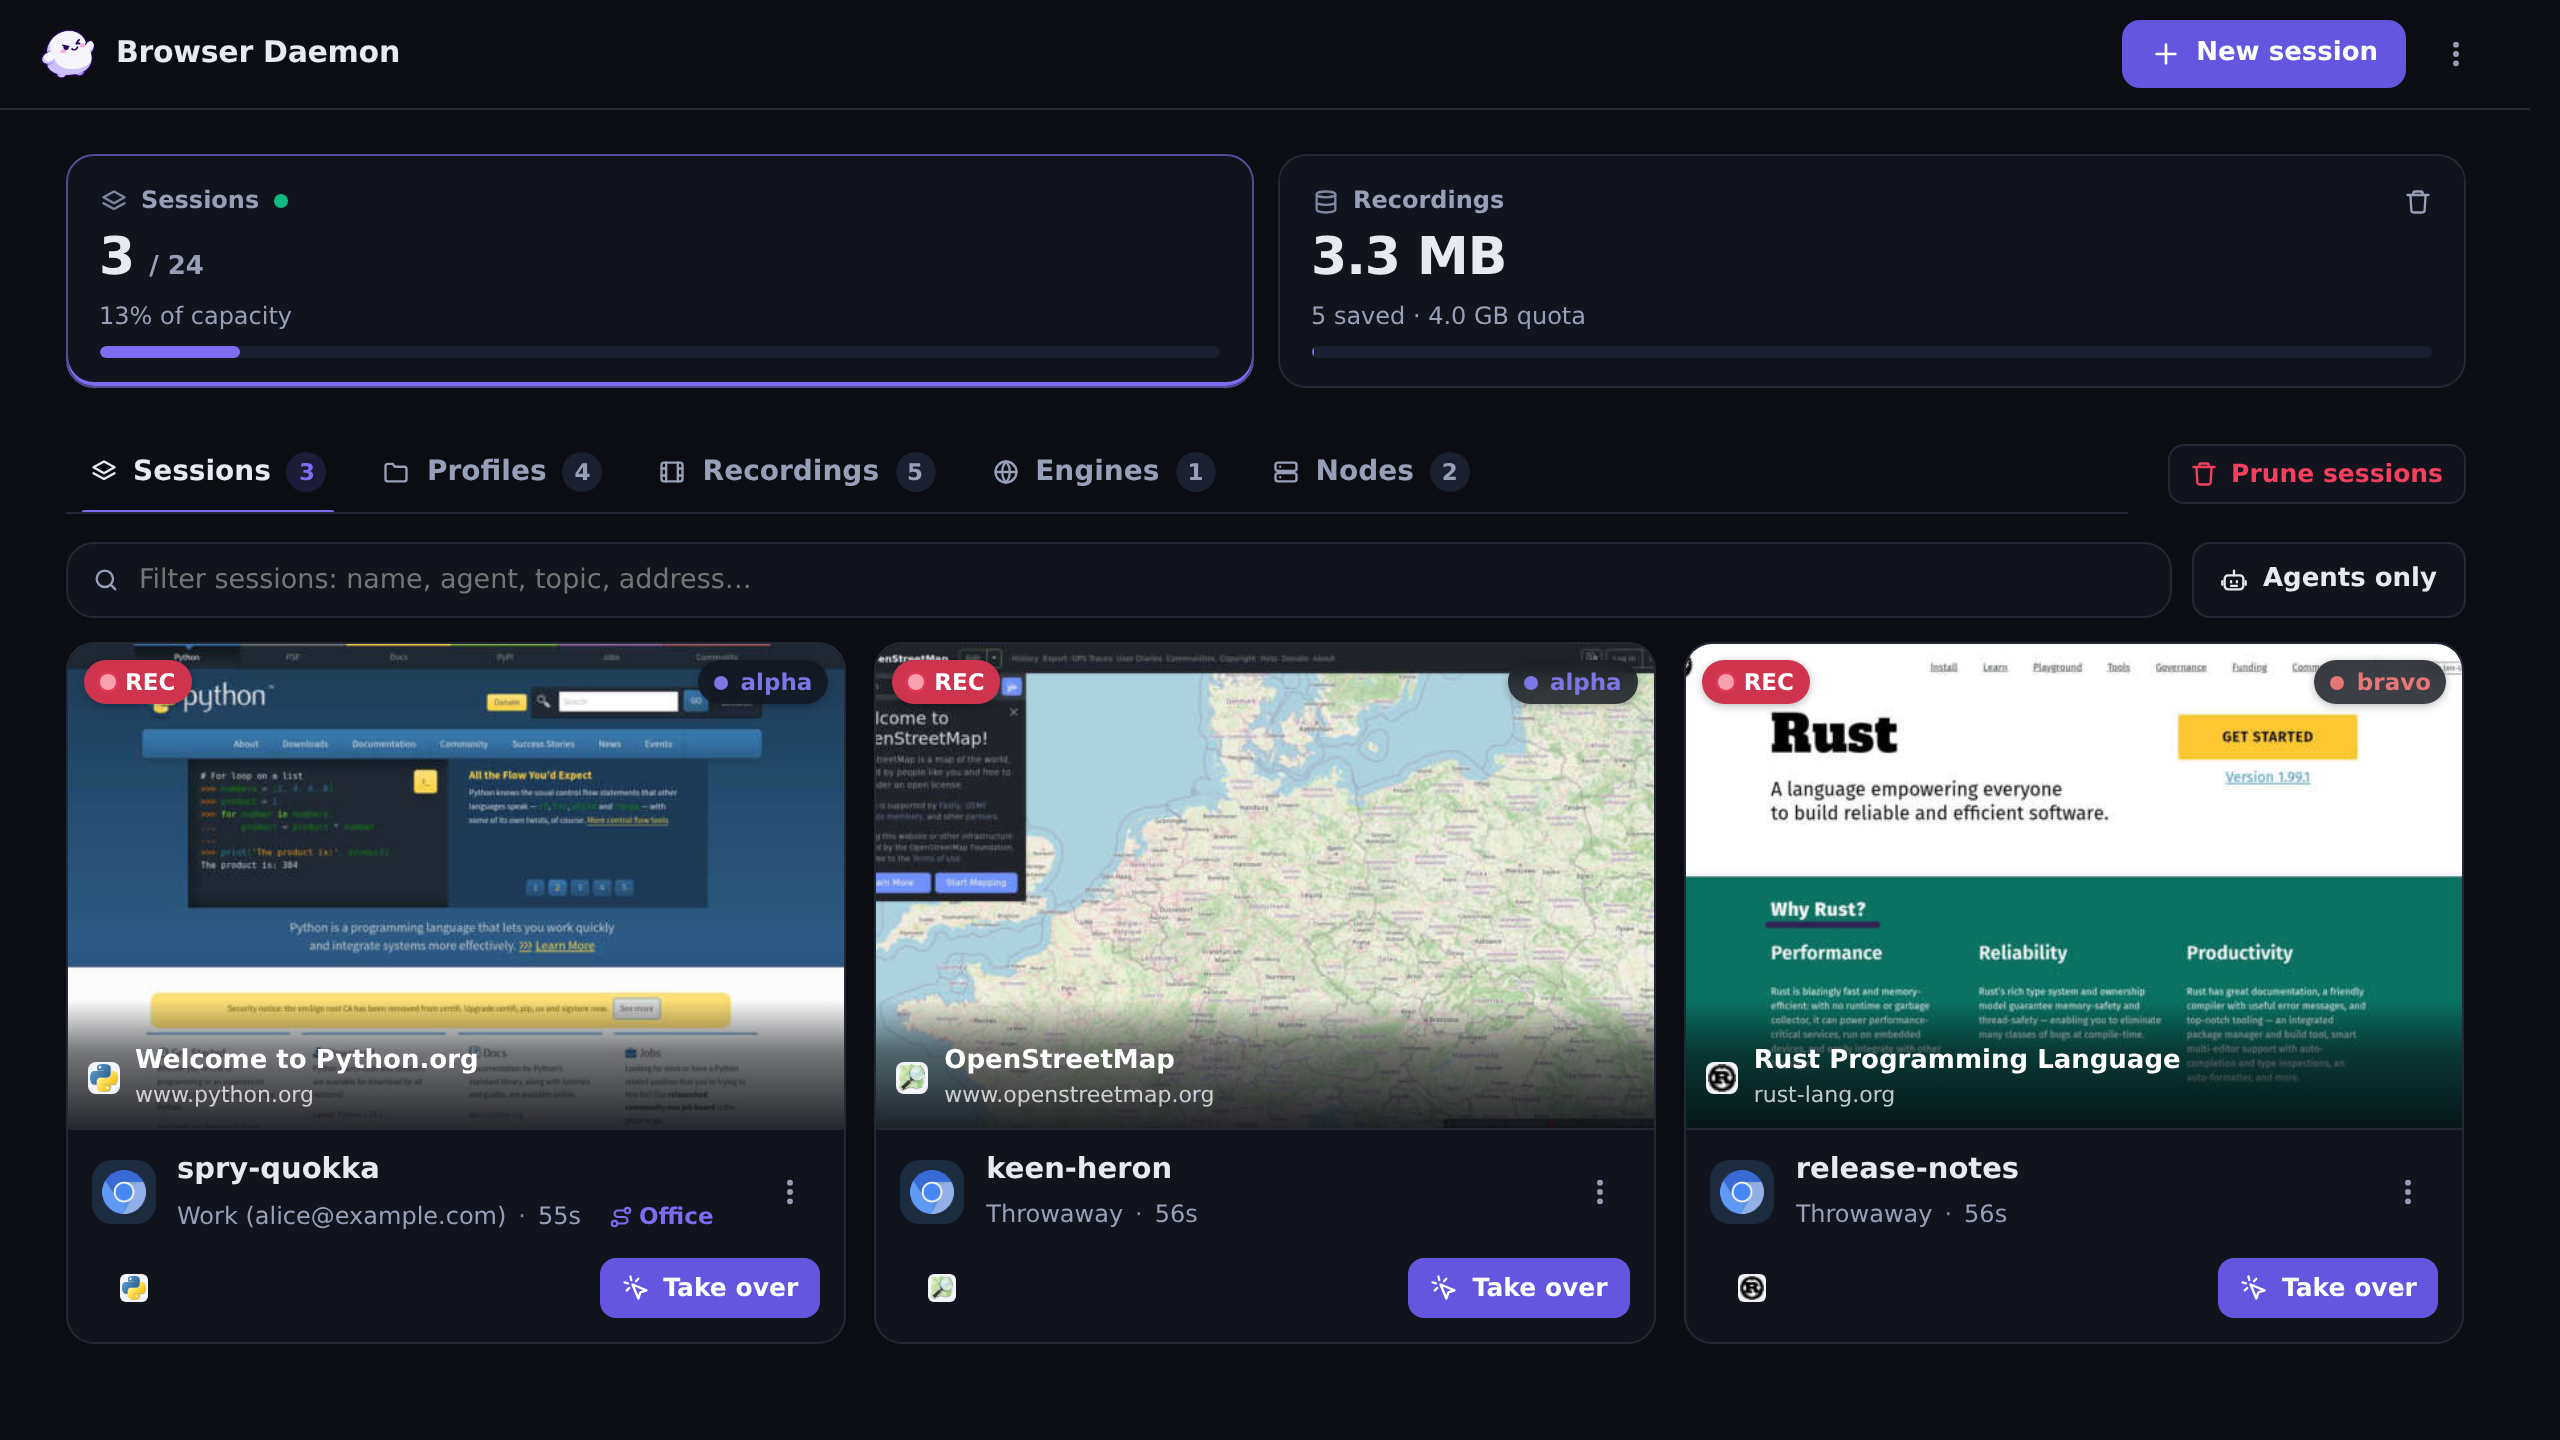
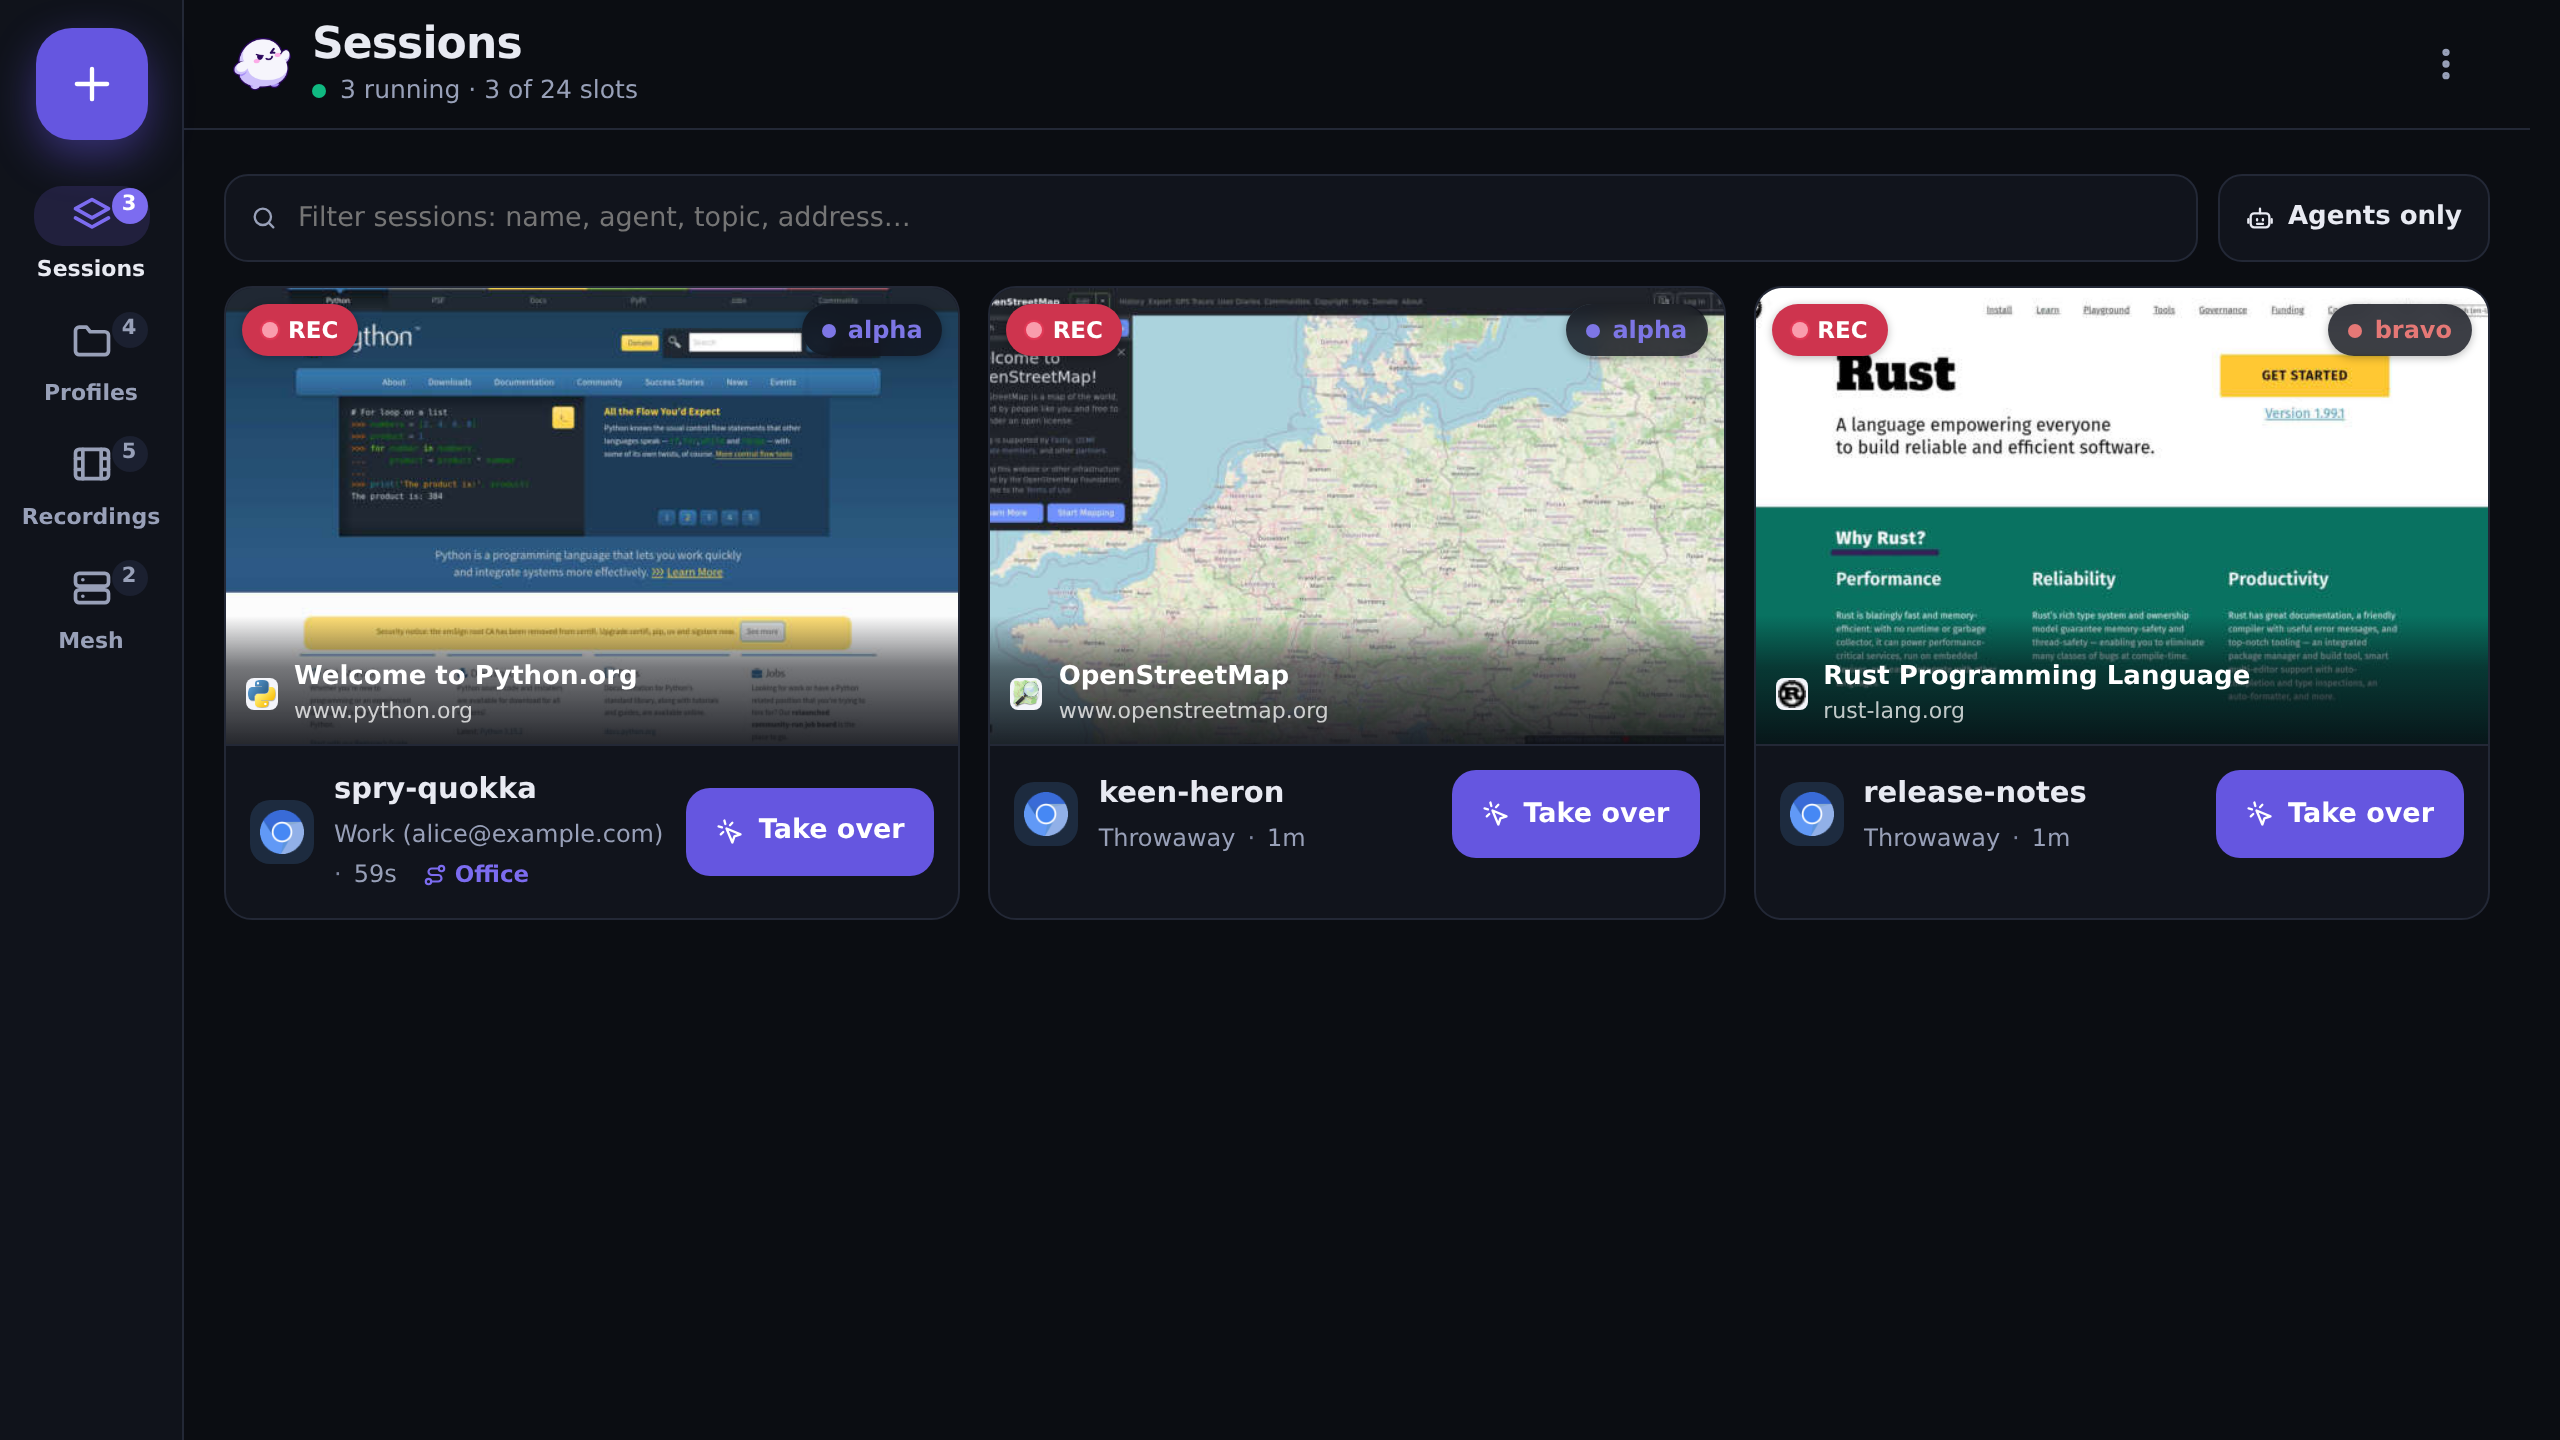
README: new dashboard pictures, also on a phone (light and dark)
All from the demo mesh (tools/screenshots/run.sh), made-up data only.

diff --git a/CHANGELOG.md b/CHANGELOG.md
@@ -4,9 +4,23 @@
 
 ### Changed
 
-* The dashboard has four tabs: Sessions, Recordings, Nodes and Settings. Profiles,
-  Engines and Labels moved under Settings (a second row of tabs); `#profiles`,
-  `#engines` and `#labels` still open them.
+* The web UI is built for phones first. The dashboard has a bar at the bottom
+  (a rail on the left on wide screens) with Sessions, Profiles, Recordings and
+  Mesh (nodes, engines and labels) and a large New button; the stat cards are a
+  line under each section's title. A session, profile or recording opens a sheet
+  (a side panel on wide screens) with its main action, frequent actions as tiles
+  and the rest as rows that show their value; menus are sheets on touch screens.
+  Recordings are selected with a long press, with their actions in a bar at the
+  bottom. `#profiles`, `#nodes`, `#engines`, `#labels` and `#mesh` open their
+  section; the old `#settings` opens Profiles.
+* The live view on a phone has one row at the top (a session switcher, and the
+  address with the tab count) and a toolbar at the bottom: Back, Forward, Keys,
+  Tabs, Session. Its session menu, settings dialog and profile menu are one
+  session sheet; Copy and Paste work without the keyboard; the tabs are a grid of
+  previews with the owning agent on each; the keys row has Ctrl and arrows.
+* The public share page has the app's colours and theme, two-finger zoom on the
+  live picture, and in-page confirmations instead of the browser's dialogs.
+* Touch targets are 44px or larger throughout.
 
 ## [0.14.0] - 2026-11-07
 

diff --git a/README.md b/README.md
@@ -18,6 +18,21 @@
   <img src="dashboard.png" alt="Dashboard: running sessions across two nodes, with their tabs">
 </picture>
 
+<p align="center">
+  <picture>
+    <source media="(prefers-color-scheme: dark)" srcset="dashboard-phone-dark.png">
+    <img src="dashboard-phone.png" width="260" alt="Dashboard on a phone: session cards and the section bar at the bottom">
+  </picture>
+  <picture>
+    <source media="(prefers-color-scheme: dark)" srcset="dashboard-phone-sheet-dark.png">
+    <img src="dashboard-phone-sheet.png" width="260" alt="A session's sheet on a phone: take over, recording, share, notes and settings">
+  </picture>
+  <picture>
+    <source media="(prefers-color-scheme: dark)" srcset="live-phone-dark.png">
+    <img src="live-phone.png" width="260" alt="The live view on a phone: the remote page with a toolbar at the bottom">
+  </picture>
+</p>
+
 ## Features
 
 - **A browser per connection**, Chromium over CDP (`/chromium`) and Firefox over
